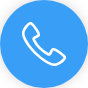
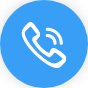
电话号码

diff --git a/components/dialog/phone2.vue b/components/dialog/phone2.vue
@@ -1,28 +1,31 @@
 <template>
   <div class="phone-dialog-comp">
+    <h2 class="name">客服电话</h2>
+    <div class="close" @click="closeTel">
+      <img src="../../assets/imgs/home/icon_close.png" alt="">
+    </div>
     <div class="phonebox">
       <div class="phone-item"
            v-for="item in phoneList"
            :key="item.phone"
            @click="onPhone(item)">
-        <div class="left">
-          <van-icon name="phone-circle-o"
-                    class="phone-icon" />
+        <div class="left" @click="closeTel">
+          <img :src="item.image_url" alt="">
         </div>
         <div class="right">
           <p class="title">{{item.title}}</p>
-          <p class="title fs-12">{{item.remark}}</p>
+          <p class="time">{{item.remark}}</p>
           <p class="number" v-if="item.phone">{{item.tel_code?item.tel_code+'-':''}}{{item.phone}}</p>
         </div>
       </div>
     </div>
-
-    <div class="elseitem">说明：拨打您所在区域无需拨添加区号</div>
   </div>
 </template>
 
 <script>
   import {getPhone} from '@/api/index'
+  import {mapMutations} from 'vuex';
+  import {DLG_TYPE} from '@/assets/js/consts/dialog'
   export default {
     name: 'normal',
     props: {
@@ -35,8 +38,6 @@
       return {
         show: this.proIsShow,
         phoneList: [
-          {title: this.$t('customerPhoneZH'), number: '400-118-1388', desc: '(8:00am - 11:00pm) EN\\CN', phone: '400-118-1388'},
-          {title: this.$t('customerPhoneEN'), number: '(001)832-886-1525', desc: '(7 * 24 Hours) EN\\CN   ', phone: '001-832-886-1525  '},
         ]
       }
     },
@@ -44,20 +45,27 @@
     },
     mounted() {
       this.getphonelist()
-      // console.log(111, this.show)
     },
     methods: {
+      ...mapMutations({
+        vxToggleDialog: 'toggleDialog', // 是否显示弹窗
+        vxSetDlgType: 'setDlgType', // 设置弹窗类型
+      }),
       onPhone(item) {
-        window.location.href = `tel:${item.tel_code} ${item.phone}`
+        window.location.href = `tel:${item.tel_code}${item.phone} `
       },
       async getphonelist() {
-    let {data,code} = await getPhone()
-    if (code === 0) {
-      this.phoneList=data.items||[];
-    } else {
-      this.$toast(data.msg)
-    }
-  },
+        let {data,code} = await getPhone()
+        if (code === 0) {
+          this.phoneList = data.items||[];
+        } else {
+          this.$toast(data.msg)
+        }
+      },
+      closeTel(){
+        this.vxToggleDialog(false)
+        this.vxSetDlgType(DLG_TYPE.NORMAL)
+      }
     },
   }
 </script>
@@ -69,49 +77,63 @@
   }
   .phonebox{
     width: 100%;
-    max-height: 860px;
-    overflow-y: scroll;
+    margin-top: 64px;
   }
   .phone-dialog-comp {
     margin: 0 auto;
-    width: 500px;
+    width: 646px;
     background: transparent;
+    text-align: left;
+    padding:34px;
+    position: relative;
+    .close{
+      position: absolute;
+      width: 60px;
+      height: 60px;
+      right: 20px;
+      top: 20px;
+      img{
+        width: 100%;
+        height: 100%;
+      }
+    }
+    h2.name{
+      color: #2D2D2D;
+      font-size:32px;
+    }
     .phone-item {
       display: flex;
       display: -webkit-flex;
-      align-items: center;
-      -webkit-align-items: center;
-      justify-content: center;
-      -webkit-justify-content: center;
-      height: 170px;
-      &:not(:last-child) {
-        border-bottom: 1px solid #9a9a9a;
-      }
+      margin-bottom: 40px;
       .left {
-        width: 150px;
         flex: 0 0 60px;
-        .phone-icon {
-          font-size: 70px;
-          color: #707070;
+        img{
+          width: 36px;
+          height: 36px;
+          vertical-align: top;
         }
       }
       .right {
-        width: 340px;
         flex: 0 0 1;
         margin-left: 15px;
         text-align: left;
         .title {
           font-size: 28px;
-          color: #5a5a5a;
-          width: 360px;
+          color: #2D2D2D;
+          height: 40px;
+          line-height: 28px;
         }
-        .fs-12{
-          font-size: 20px!important;
+        .time {
+          font-size: 24px;
+          color: #707070;
+          line-height: 24px;
+          margin-bottom: 16px;
         }
         .number {
-          font-size: 28px;
+          font-size: 32px;
           font-weight: bold;
-          color: #000;
+          color: #00ABF9;
+          margin-top: 8px;
         }
       }
     }

diff --git a/components/dialog/phone.vue b/components/dialog/phone.vue
@@ -1,28 +1,31 @@
 <template>
   <div class="phone-dialog-comp">
+    <h2 class="name">客服电话</h2>
+    <div class="close" @click="closeTel">
+      <img src="../../assets/imgs/home/icon_close.png" alt="">
+    </div>
     <div class="phonebox">
       <div class="phone-item"
            v-for="item in phoneList"
            :key="item.phone"
            @click="onPhone(item)">
-        <div class="left">
-          <van-icon name="phone-circle-o"
-                    class="phone-icon" />
+        <div class="left" @click="closeTel">
+          <img :src="item.image_url" alt="">
         </div>
         <div class="right">
           <p class="title">{{item.title}}</p>
-          <p class="title fs-12">{{item.remark}}</p>
+          <p class="time">{{item.remark}}</p>
           <p class="number" v-if="item.phone">{{item.tel_code?item.tel_code+'-':''}}{{item.phone}}</p>
         </div>
       </div>
     </div>
-
-    <div class="elseitem">说明：拨打您所在区域无需拨添加区号</div>
   </div>
 </template>
 
 <script>
   import {getPhone} from '@/api/index'
+  import {mapMutations} from 'vuex';
+  import {DLG_TYPE} from '@/assets/js/consts/dialog'
   export default {
     name: 'normal',
     props: {
@@ -44,17 +47,25 @@
       this.getphonelist()
     },
     methods: {
+      ...mapMutations({
+        vxToggleDialog: 'toggleDialog', // 是否显示弹窗
+        vxSetDlgType: 'setDlgType', // 设置弹窗类型
+      }),
       onPhone(item) {
         window.location.href = `tel:${item.tel_code}${item.phone} `
       },
       async getphonelist() {
         let {data,code} = await getPhone()
         if (code === 0) {
-          this.phoneList=data.items||[];
+          this.phoneList = data.items||[];
         } else {
           this.$toast(data.msg)
         }
       },
+      closeTel(){
+        this.vxToggleDialog(false)
+        this.vxSetDlgType(DLG_TYPE.NORMAL)
+      }
     },
   }
 </script>
@@ -66,29 +77,40 @@
   }
   .phonebox{
     width: 100%;
-    max-height: 860px;
-    overflow-y: scroll;
+    margin-top: 64px;
   }
   .phone-dialog-comp {
     margin: 0 auto;
-    width: 500px;
+    width: 646px;
     background: transparent;
+    text-align: left;
+    padding:34px;
+    position: relative;
+    .close{
+      position: absolute;
+      width: 60px;
+      height: 60px;
+      right: 20px;
+      top: 20px;
+      img{
+        width: 100%;
+        height: 100%;
+      }
+    }
+    h2.name{
+      color: #2D2D2D;
+      font-size:32px;
+    }
     .phone-item {
       display: flex;
       display: -webkit-flex;
-      align-items: center;
-      -webkit-align-items: center;
-      justify-content: center;
-      -webkit-justify-content: center;
-      height: 170px;
-      &:not(:last-child) {
-        border-bottom: 1px solid #9a9a9a;
-      }
+      margin-bottom: 40px;
       .left {
-        flex: 0 0 80px;
-        .phone-icon {
-          font-size: 70px;
-          color: #707070;
+        flex: 0 0 60px;
+        img{
+          width: 36px;
+          height: 36px;
+          vertical-align: top;
         }
       }
       .right {
@@ -97,13 +119,21 @@
         text-align: left;
         .title {
           font-size: 28px;
-          color: #5a5a5a;
-          width: 360px;
+          color: #2D2D2D;
+          height: 40px;
+          line-height: 28px;
+        }
+        .time {
+          font-size: 24px;
+          color: #707070;
+          line-height: 24px;
+          margin-bottom: 16px;
         }
         .number {
-          font-size: 28px;
+          font-size: 32px;
           font-weight: bold;
-          color: #000;
+          color: #00ABF9;
+          margin-top: 8px;
         }
       }
     }

diff --git a/components/drift_aside/index.vue b/components/drift_aside/index.vue
@@ -10,33 +10,6 @@
       <img src="../../assets/imgs/home/icon_back_top.png" alt="">
     </div>
     <!--显示电话号码-->
-    <van-popup v-model="isTel">
-      <div class="tel-list">
-        <dl class="center-tel">
-          <dd>
-            <van-icon name="phone-o" class="big-icon" />
-            <div class="tel-box">
-              <p>{{$t('customerPhoneZH')}}7*24</p>
-              <p class="tel"><a href="tel:4001181388">400-118-1388</a></p>
-            </div>
-          </dd>
-          <dd>
-            <van-icon name="phone-o" class="big-icon" />
-            <div class="tel-box">
-              <p>{{$t('customerPhoneEN')}}</p>
-              <p class="tel"><a href="tel:0018889330336">(001)888-933-0336</a></p>
-            </div>
-          </dd>
-          <dd>
-            <van-icon name="phone-o" class="big-icon"/>
-            <div class="tel-box">
-              <p>{{$t('customerPhoneJP')}}</p>
-              <p class="tel"><a href="tel:0081355455311">(0081)3-5545-5311</a></p>
-            </div>
-          </dd>
-        </dl>
-      </div>
-    </van-popup>
   </div>
 </template>
 
